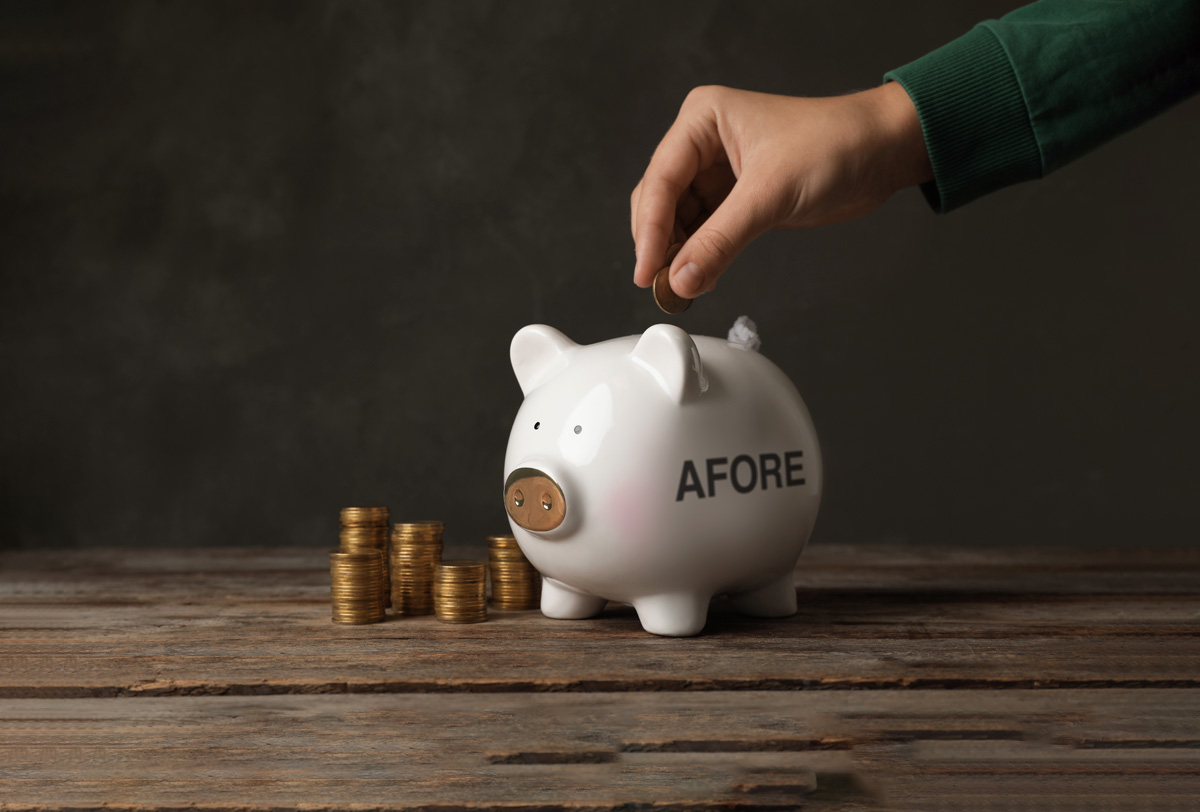
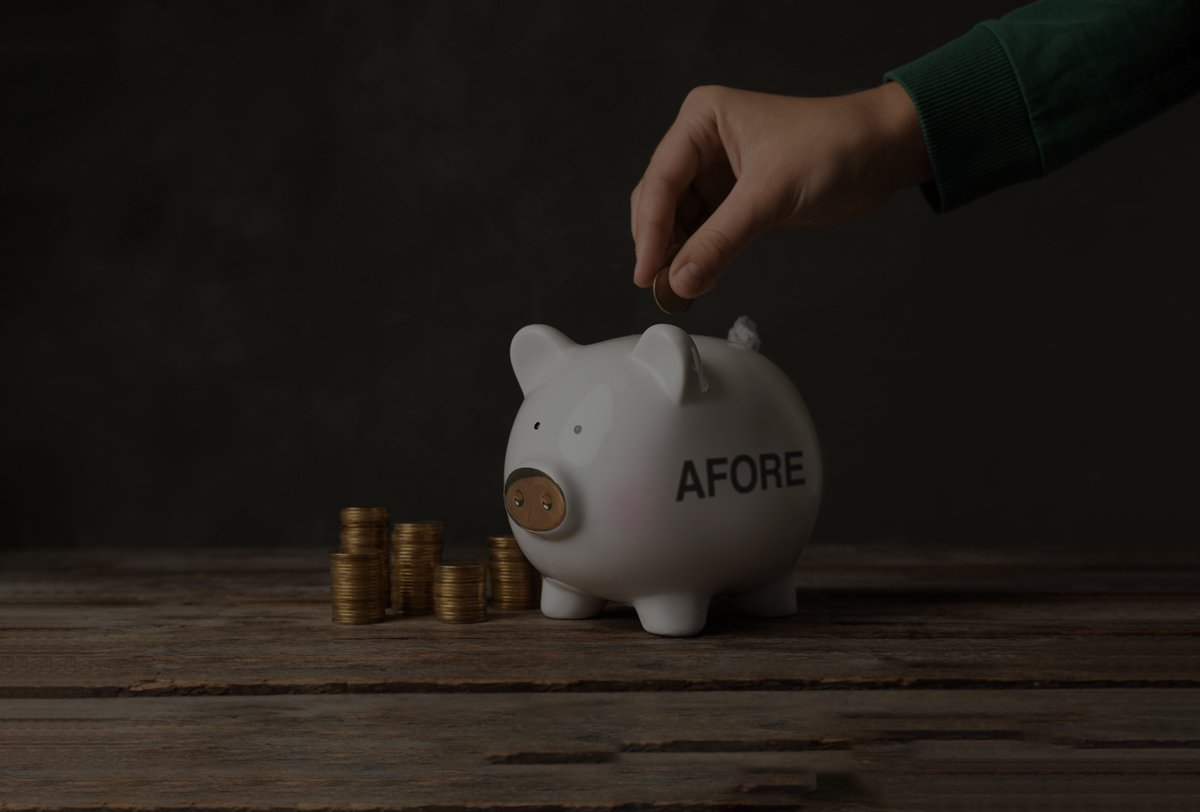
ajuste final en tarjetas

diff --git a/css/styles.css b/css/styles.css
@@ -222,7 +222,7 @@ section h2 {
 .tarjeta:nth-child(2) {
     background-repeat: no-repeat;
     background-size: cover;
-    background-image: url("../img/IMSS_ISSSTE.jpg");
+    background-image: url("../img/ImssIssste.png");
     background-position: center center;
     -webkit-filter: blur(2px);
     transition: 1s ease;
@@ -240,7 +240,7 @@ section h2 {
 .tarjeta:nth-child(3) {
     background-repeat: no-repeat;
     background-size: cover;
-    background-image: url("../img/3.jpeg");
+    background-image: url("../img/pension.jpg");
     background-position: center center;
     -webkit-filter: blur(2px);
     transition: 1s ease;
